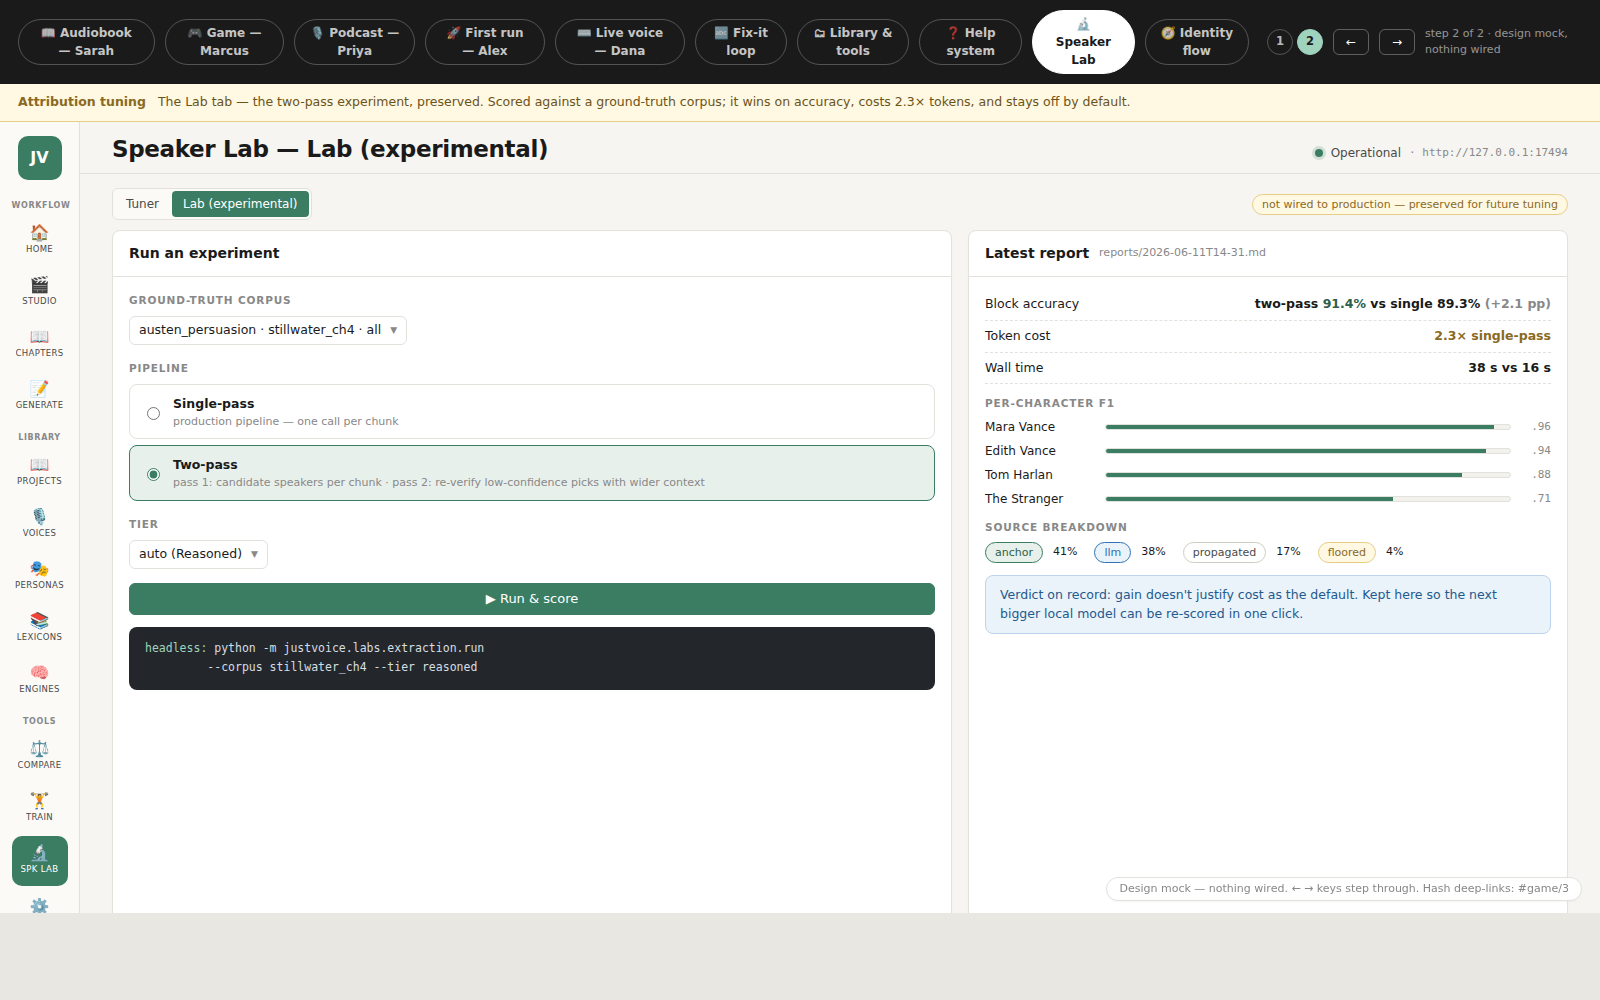
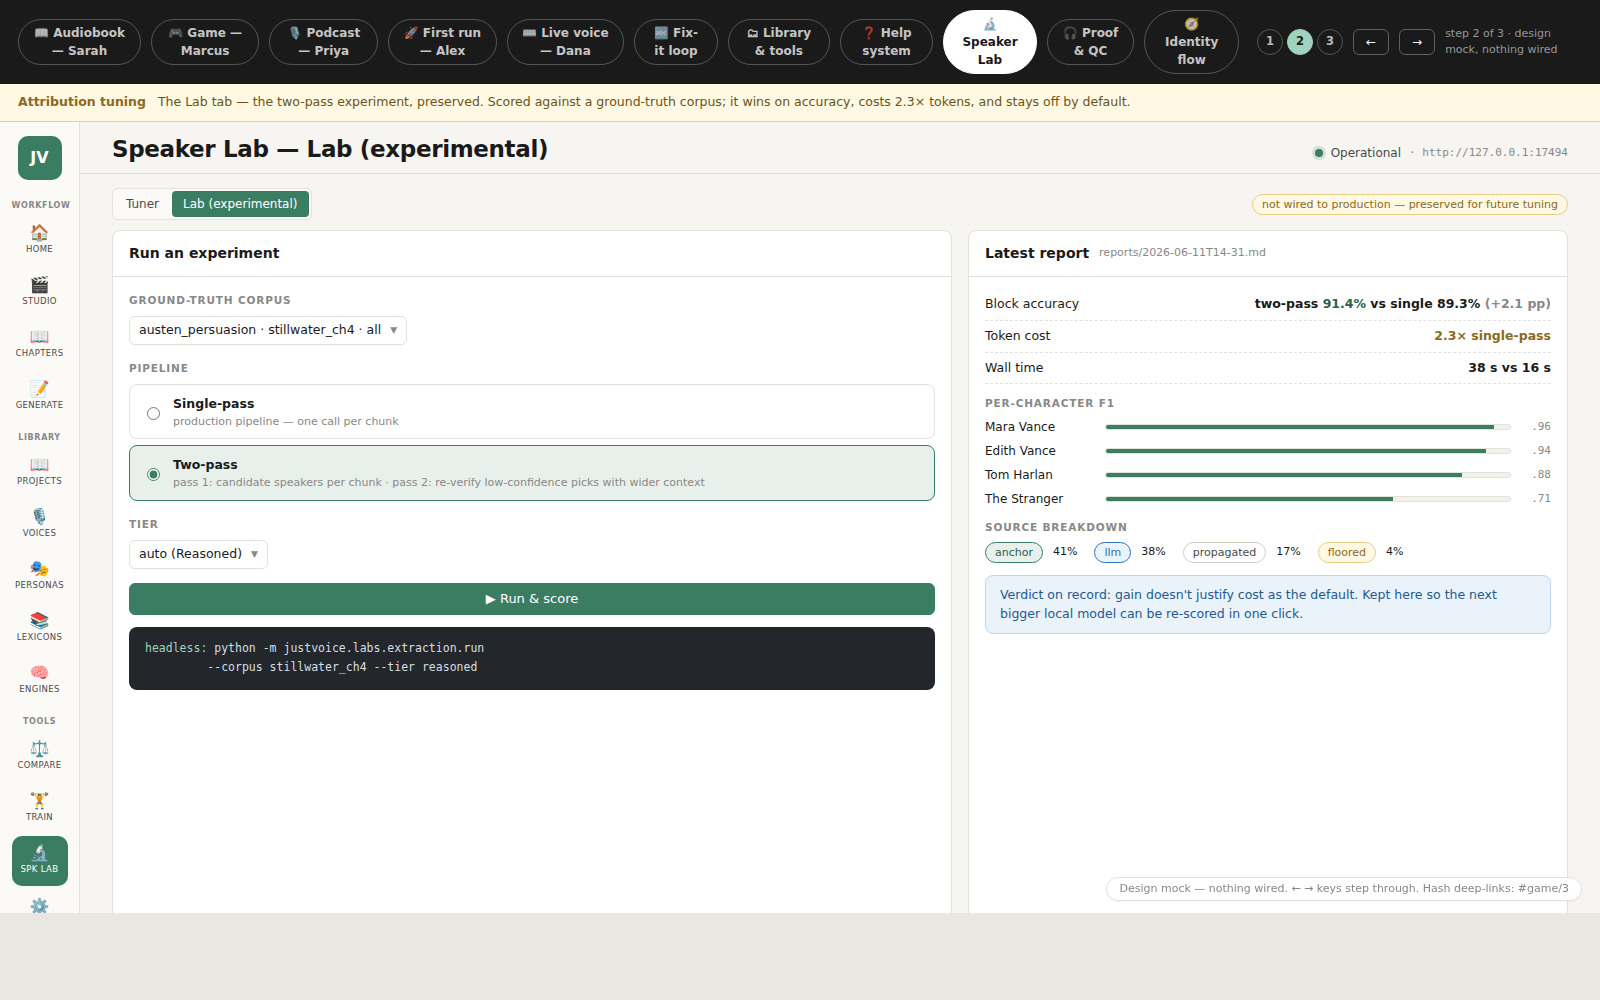
fix(design): Speaker Lab reworked per review — text-box-first extraction testbed, model-vs-model columns w/ auto tier, editable prompts + promote; AI task runner screen added; CONCEPTS §16
https://claude.ai/code/session_01RnHLzYNeJn2GgAMKW1BPmR

Changed region(s): [[0.0312, 0.0, 0.9688, 0.093]]

diff --git a/preview/journeys-preview.html b/preview/journeys-preview.html
@@ -1288,39 +1288,44 @@ const stepsHelp = [
    ════════════════════════════════════════════════════════════════════ */
 const srcChip = s => ({anchor:'<span class="pill green">anchor</span>',llm:'<span class="pill blue">llm</span>',prop:'<span class="pill">propagated</span>',floor:'<span class="pill warn">floored</span>'})[s];
 const stepsSplab = [
-{ nav:"Spk Lab", t:"The main tab. JustVoice detects the model, auto-classifies its tier, and lets you race tiers side-by-side on real text before pinning one to production.",
+{ nav:"Spk Lab", t:"Speaker-extraction testbed. Paste any text — no project or chapters needed — name the cast, then race two local models on the exact same input.",
   html: () => shell("audiobook","Spk Lab","Speaker Lab — Tuner", "", `
-    <div class="row" style="margin-bottom:10px"><span class="chips"><button class="chip active">Tuner</button><button class="chip">Lab (experimental)</button></span>
-      <span class="spacer"></span><span class="muted" style="font-size:11.5px">same backend as Studio · Script — nothing here touches your project until you pin</span></div>
-    <div class="card" style="padding:11px 16px;margin-bottom:10px"><div class="row" style="flex-wrap:nowrap">
-      <div style="flex:none"><div class="eyebrow">Detected model</div><strong style="font-size:13px">Ollama · qwen3:14b</strong></div>
-      <div style="flex:none;border-left:1px solid var(--line);padding-left:14px"><div class="eyebrow">Auto-classified</div><span class="pill blue">Reasoned</span> <span class="muted" style="font-size:11px">think blocks on · floor 0.5</span></div>
-      <div style="flex:1;min-width:0;border-left:1px solid var(--line);padding-left:14px"><div class="eyebrow">Why</div><span class="muted" style="font-size:11.5px">Qwen3 14B+ is hybrid-reasoning → tiers up. Sub-12B would get Guided (worked examples, floor 0.7); big non-reasoning models get Direct.</span></div>
-      <span class="combo-cell" style="flex:none">override: auto<span class="chev">▼</span></span>
-    </div></div>
-    <div class="row" style="margin-bottom:10px">
-      <span class="combo-cell">Stillwater · Chapter 4 — The Visitor<span class="chev">▼</span></span>
-      <span class="muted" style="font-size:11.5px">or paste any text</span>
-      <span class="pill ghost">characters: Mara · Edith · Tom Harlan · +aliases</span>
-      <span class="spacer"></span><button class="btn sm">▶ Run all columns</button></div>
+    <div class="row" style="margin-bottom:8px"><span class="chips"><button class="chip active">Tuner</button><button class="chip">Lab (experimental)</button></span>
+      <span class="spacer"></span><span class="muted" style="font-size:11.5px">same extraction backend as Studio · Script — nothing touches production until you promote</span></div>
+    <div class="row" style="margin-bottom:6px">
+      <button class="btn secondary sm">⬇ Load from chapter ▾</button><span class="muted" style="font-size:11px">optional — the box is the input, type or paste anything</span>
+      <span class="spacer"></span>
+      <span class="pill">Mara ✕</span><span class="pill">Edith Vance ✕</span><span class="pill">Tom Harlan · alias: Tom ✕</span>
+      <input class="input" style="max-width:150px;height:26px;font-size:12px" placeholder="＋ character"/></div>
+    <textarea class="input" style="height:88px;padding:9px 12px;resize:none;font-size:13px;margin-bottom:10px">"Your grandmother ever tell you what's under the boathouse?" He said it without turning around. "She tells me lots of things. Few of them true." "Ask her about the winter of '61. Watch her hands," Tom said. "You'd do well to remember that."</textarea>
+    <div style="display:grid;grid-template-columns:1fr 1fr;gap:12px;margin-bottom:10px">
+      ${[["A","Ollama · qwen3:8b","auto → Guided","think off · floor 0.7","defaults",""],
+         ["B","Ollama · qwen3:14b","auto → Reasoned","think on · floor 0.5","tweaked ●","border-color:var(--accent);box-shadow:0 0 0 3px var(--accent-soft)"]]
+        .map(c=>`<div class="card" style="padding:11px 14px;${c[5]}"><div class="row" style="flex-wrap:nowrap">
+          <span class="eyebrow" style="flex:none">Column ${c[0]}</span>
+          <span class="combo-cell">${c[1]}<span class="chev">▼</span></span>
+          <span class="pill blue">${c[2]}</span><span class="muted" style="font-size:10.5px">${c[3]}</span>
+          <span class="spacer"></span>
+          <label style="font-size:11px;display:inline-flex;gap:4px;align-items:center"><input type="checkbox" checked style="accent-color:var(--accent)"/>propagate</label>
+          <label style="font-size:11px;display:inline-flex;gap:4px;align-items:center"><input type="checkbox" checked style="accent-color:var(--accent)"/>floor</label>
+          <button class="btn ghost sm">Prompts: ${c[4]}</button><button class="btn sm">▶ Run</button></div></div>`).join("")}
+    </div>
+    <p class="muted" style="font-size:11px;margin:0 0 8px">Tier follows the model — pick qwen3:14b and it auto-switches to Reasoned (think=true); the 8b stays Guided (think=false). Override the select only if you know better; prompt bodies are editable per tier and resettable to the defaults we shipped (tuned on 8b/14b).</p>
     <div class="card" style="flex:1;min-height:0;overflow:auto"><table class="vtable">
-      <thead><tr><th style="min-width:280px">Line</th>
-        <th>Reasoned <span class="muted" style="font-weight:400">· think · floor .5 · 14.2 s</span></th>
-        <th>Direct <span class="muted" style="font-weight:400">· floor .5 · 6.1 s</span></th>
-        <th>Guided <span class="muted" style="font-weight:400">· floor .7 · 5.8 s</span></th></tr></thead>
+      <thead><tr><th style="min-width:280px">Segment</th><th>A · qwen3:8b · Guided <span class="muted" style="font-weight:400">5.8 s</span></th><th>B · qwen3:14b · Reasoned <span class="muted" style="font-weight:400">14.2 s</span></th></tr></thead>
       <tbody>
-        ${[["“Your grandmother ever tell you what's under the boathouse?”",["Tom Harlan","anchor",".99"],["Tom Harlan","anchor",".99"],["Tom Harlan","anchor",".99"]],
-           ["“She tells me lots of things. Few of them true.”",["Mara","llm",".93"],["Mara","llm",".88"],["Mara","llm",".84"]],
-           ["He said it without turning around.",["— narration","prop","—"],["— narration","prop","—"],["— narration","prop","—"]],
-           ["“Ask her about the winter of '61. Watch her hands.”",["Tom Harlan","llm",".91"],["Tom Harlan","llm",".79"],["unknown","floor",".62 → floored"]],
-           ["“You'd do well to remember that.”",["Tom Harlan","llm",".84"],["Mara","llm",".58"],["unknown","floor",".44 → floored"]]]
-          .map((r,i)=>`<tr ${i===4?'style="background:var(--warn-bg)"':''}><td style="font-size:12px;color:var(--ink-2)">${r[0]}</td>${r.slice(1).map(c=>`<td style="white-space:nowrap"><strong style="font-size:12px">${c[0]}</strong> ${srcChip(c[1])} <span class="muted" style="font-size:10.5px">${c[2]}</span></td>`).join("")}</tr>`).join("")}
+        ${[["“Your grandmother ever tell you what's under the boathouse?”",["Tom Harlan","llm",".84"],["Tom Harlan","llm",".93"],0],
+           ["He said it without turning around.",["— narration","prop","—"],["— narration","prop","—"],0],
+           ["“She tells me lots of things. Few of them true.”",["Mara","llm",".82"],["Mara","llm",".91"],0],
+           ["“Ask her about the winter of '61. Watch her hands,” Tom said.",["Tom Harlan","anchor",".99"],["Tom Harlan","anchor",".99"],0],
+           ["“You'd do well to remember that.”",["unknown","floor",".58 → floored"],["Tom Harlan","llm",".88"],1]]
+          .map(r=>`<tr ${r[3]?'style="background:var(--warn-bg)"':''}><td style="font-size:12px;color:var(--ink-2)">${r[0]}</td>${[r[1],r[2]].map(c=>`<td style="white-space:nowrap"><strong style="font-size:12px">${c[0]}</strong> ${srcChip(c[1])} <span class="muted" style="font-size:10.5px">${c[2]}</span></td>`).join("")}</tr>`).join("")}
       </tbody></table></div>
     <div class="row" style="margin-top:10px">
-      <span class="pill green">Reasoned: 47/47 vs anchors</span><span class="pill">Direct: 44/47 · 1 divergence</span><span class="pill warn">Guided: 41/47 · 6 floored</span>
+      <span class="pill">4/5 agree</span><span class="pill warn">1 divergence — 8b floored where 14b is confident</span>
       <span class="spacer"></span>
-      <button class="btn">📌 Pin Reasoned to production</button>
-      <span class="muted" style="font-size:11px">writes the speaker_attribution feature pin — Studio · Script uses it from now on</span></div>`) },
+      <button class="btn">📌 Promote column B to production</button>
+      <span class="muted" style="font-size:11px">pins model + tier + prompt tweaks as the speaker-attribution method Studio · Script uses</span></div>`) },
 
 { nav:"Spk Lab", t:"The Lab tab — the two-pass experiment, preserved. Scored against a ground-truth corpus; it wins on accuracy, costs 2.3× tokens, and stays off by default.",
   html: () => shell("audiobook","Spk Lab","Speaker Lab — Lab (experimental)", "", `
@@ -1351,6 +1356,28 @@ const stepsSplab = [
         <p class="eyebrow" style="margin:12px 0 6px">Source breakdown</p>
         <div class="row" style="font-size:11px">${srcChip("anchor")} 41% &nbsp;${srcChip("llm")} 38% &nbsp;${srcChip("prop")} 17% &nbsp;${srcChip("floor")} 4%</div>
         <div class="banner info" style="margin-top:12px">Verdict on record: gain doesn't justify cost as the default. Kept here so the next bigger local model can be re-scored in one click.</div>
+      </div></div>
+    </div>`) },
+
+{ nav:"Spk Lab", t:"Every AI call in the app — extraction, smart-assign, suggestions — runs through one task runner: live time, tokens, stall detection, cancel. Finishing fires a notification.",
+  html: () => shell("audiobook","Spk Lab","Speaker Lab — run in progress", `<span class="hdr-chip" style="border-color:var(--info-blue);color:var(--info-blue)">⚙ AI · 1 running</span>`, `
+    <div class="two-col" style="grid-template-columns:minmax(0,1fr) 350px">
+      <div class="card" style="opacity:.6"><div class="card-h"><strong>Results</strong><span class="pill blue">column B streaming…</span></div><div class="card-b">
+        ${[1,1,1].map(()=>`<div style="height:14px;background:var(--surface-3);border-radius:4px;margin-bottom:10px;width:${60+Math.random()*30}%"></div>`).join("")}
+        <div class="row" style="margin-top:6px"><div class="prog" style="flex:1"><div class="fill" style="width:62%"></div></div><span class="muted" style="font-size:11px">segment 29 / 47</span></div>
+      </div></div>
+      <div class="card"><div class="card-h"><strong>AI tasks</strong><span class="pill blue">1 running · 1 queued</span></div><div class="card-b">
+        <div style="border:1px solid var(--info-blue);border-radius:8px;padding:10px 12px;margin-bottom:8px;background:var(--info-soft)">
+          <div class="row" style="flex-wrap:nowrap"><strong style="font-size:12.5px;flex:1">Speaker extraction — qwen3:14b · Reasoned</strong><span class="pill blue">streaming</span></div>
+          <div class="row" style="margin-top:6px;font-size:11px;color:var(--ink-2)"><span class="mono">0:14</span><span>·</span><span class="mono">2,341 tok</span><span>·</span><span>last token 0.3 s ago</span><span class="spacer"></span><button class="btn ghost sm" style="color:var(--danger)">✕ Cancel</button></div>
+        </div>
+        <div style="border:1px solid var(--line);border-radius:8px;padding:9px 12px;margin-bottom:8px">
+          <div class="row" style="flex-wrap:nowrap"><strong style="font-size:12px;flex:1;color:var(--ink-2)">Smart-assign — Emberfall cast</strong><span class="pill ghost">queued</span></div>
+        </div>
+        <p class="eyebrow" style="margin:10px 0 6px">History</p>
+        ${[["Speaker extraction — qwen3:8b · Guided","✓ done","0:09 · 1,872 tok"],["Render-preset suggest","✕ cancelled","0:04 · 312 tok"]]
+          .map(h=>`<div class="row" style="flex-wrap:nowrap;font-size:11.5px;padding:5px 0;border-bottom:1px dashed var(--line)"><span style="flex:1;color:var(--ink-2)">${h[0]}</span><span class="pill ${h[1].startsWith('✓')?'green':''}" style="flex:none">${h[1]}</span><span class="mono muted" style="font-size:10.5px;flex:none">${h[2]}</span></div>`).join("")}
+        <div class="banner warn" style="margin-top:10px;font-size:11.5px">Stall detection: no token for 5 s → amber; 30 s → likely stuck, offers cancel + retry. Tasks survive leaving the view — the ⚙ AI header chip reopens this panel from anywhere; completion fires a toast (and an OS notification if the window is unfocused).</div>
       </div></div>
     </div>`) },
 

diff --git a/docs/CONCEPTS.md b/docs/CONCEPTS.md
@@ -426,3 +426,42 @@ bundle STT already), mapped to the 15-viseme set. Manifest entry gains
 artifacts we already planned — timestamps + STT — and makes the game
 export consumable by all three integration paths without JustVoice ever
 rendering a face.
+
+## 16. Speaker Lab corrected + AI task runner (user review, 2026-06-11)
+
+Supersedes the comparison-table description in §12 where they differ.
+
+**Speaker Lab purpose, precisely:** test **speaker extraction** on
+arbitrary text. There may be no project or chapters at all — the input is
+a plain **text box** (type or paste anything); "Load from chapter" is an
+optional convenience, not the entry point.
+
+**Columns compare MODELS, not tiers.** The real-world setup: two local
+models (e.g. qwen3:8b and qwen3:14b) run side-by-side on the same input.
+The **tier follows the model** — pick qwen3:14b and it auto-switches to
+Reasoned (think=true); the 8b stays at think=false. You select a tier
+manually only when you know better than the auto-classification; some
+models are hard-coded in `tiers.py`.
+
+**Prompts are part of what you tune.** Per-tier prompt bodies are
+editable in the lab and resettable to shipped defaults (the defaults were
+tuned against 8b/14b and found best there). **Promote** pins the whole
+tested combination — model + tier + prompt tweaks — as the production
+speaker-attribution method (`speaker_attribution` feature pin).
+
+**AI task runner (hard requirement, all AI features).** Ported from
+JustWrite's AIProgressBar + AITaskRunner pattern (`stores/aiTasks.js`):
+every AI call — extraction, smart-assign, preset suggest, show notes —
+must surface to the user:
+
+- live **elapsed time** and **token count** while streaming
+- **cancel** at any time
+- stall detection (no token ~5 s → amber; >30 s → likely stuck, offer
+  cancel + retry)
+- tasks survive leaving the view; a header ⚙ AI chip reopens the
+  slide-in panel from anywhere; history keeps recent done/cancelled runs
+  with duration + tokens
+- completion fires a toast, and an OS notification when the window is
+  unfocused
+
+Mocked as Speaker Lab step 3 (`#splab/3`).
